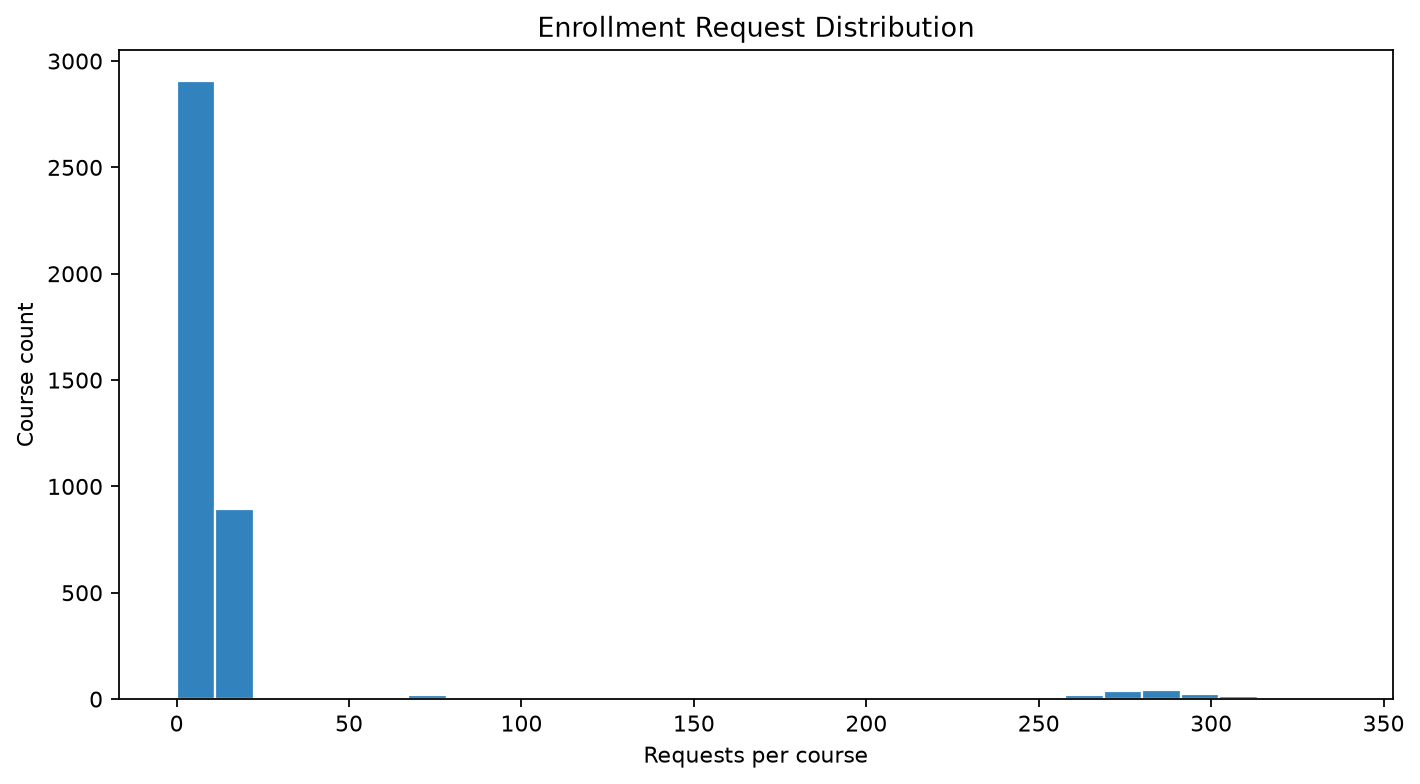
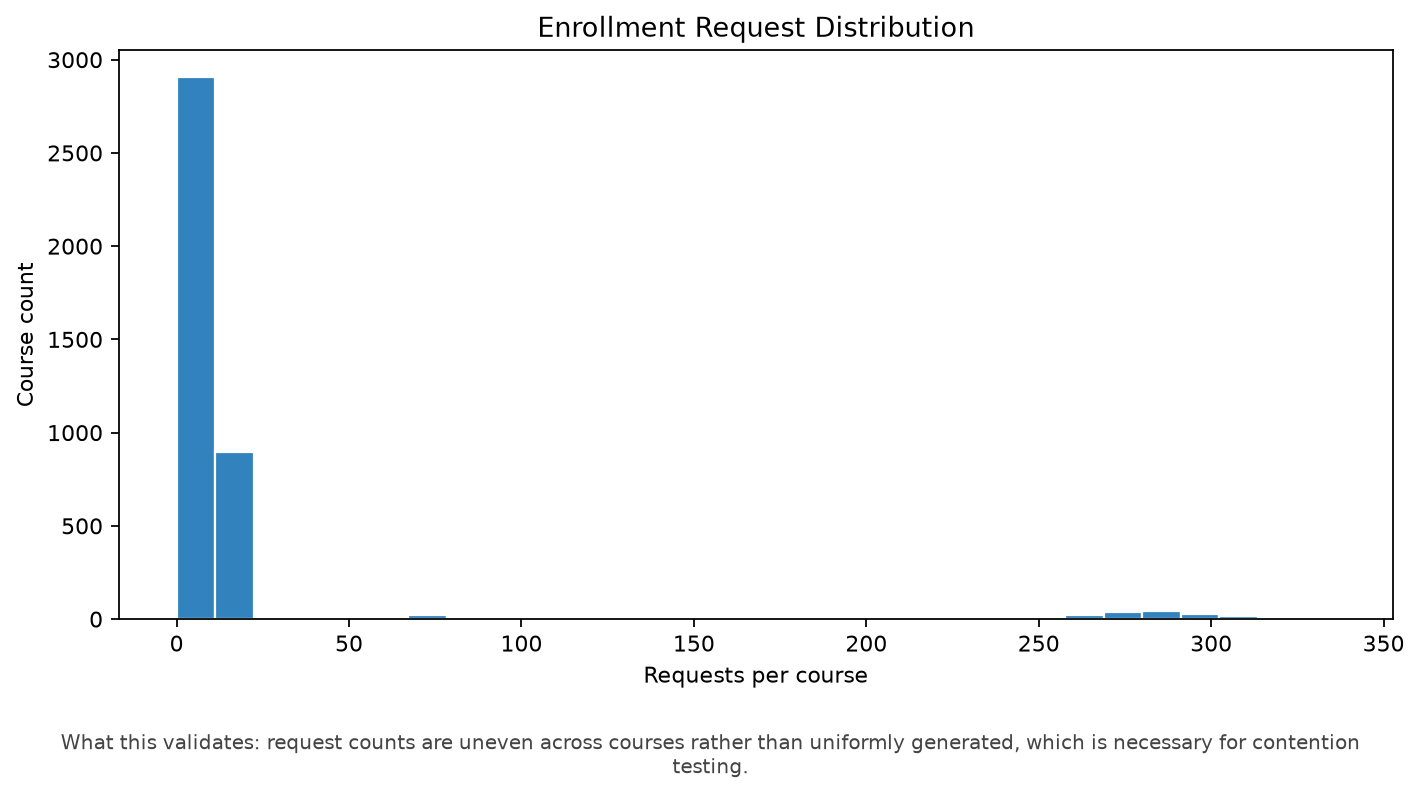
feat: validation 리포트 시각화 수정

diff --git a/src/exporters/chart_exporter.py b/src/exporters/chart_exporter.py
@@ -1,6 +1,7 @@
 from __future__ import annotations
 
 import os
+import textwrap
 
 
 class ChartExporter:
@@ -18,19 +19,147 @@ class ChartExporter:
 
         chart_dir = context.output_dir / "charts"
         chart_dir.mkdir(parents=True, exist_ok=True)
+        appendix_dir = chart_dir / "appendix"
+        appendix_dir.mkdir(parents=True, exist_ok=True)
+        for stale_name in ("student_year_distribution.png", "department_distribution.png"):
+            stale_path = chart_dir / stale_name
+            if stale_path.exists():
+                stale_path.unlink()
+
+        self._payload_timeline(plt, chart_dir, context)
+        self._course_rank(plt, chart_dir, context, analysis["hotspot"])
+        self._hotspot_competition(plt, chart_dir, context, analysis["hotspot"])
+        self._validation_coverage(plt, chart_dir, context)
+        self._hotspot_summary(plt, chart_dir, analysis["hotspot"])
         self._hotspot(plt, chart_dir, analysis["hotspot"])
         self._enrollment(plt, chart_dir, context, analysis["hotspot"])
-        self._student_year(plt, chart_dir, analysis["distribution"])
-        self._department(plt, chart_dir, analysis["distribution"])
+        self._student_year(plt, appendix_dir, analysis["distribution"])
+        self._department(plt, appendix_dir, analysis["distribution"])
         self._timeslot(plt, chart_dir, analysis["schedule"])
         self._prerequisite_validation(plt, chart_dir, analysis["prerequisite"])
         self._prerequisite_graph(plt, chart_dir, context)
 
     @staticmethod
-    def _save(plt, path):
-        plt.tight_layout()
+    def _save(plt, path, caption):
+        figure = plt.gcf()
+        figure.text(
+            0.5,
+            0.015,
+            "What this validates: " + textwrap.fill(caption, width=110),
+            ha="center",
+            va="bottom",
+            fontsize=9,
+            color="#444444",
+        )
+        plt.tight_layout(rect=(0, 0.10, 1, 1))
         plt.savefig(path, dpi=160, bbox_inches="tight")
         plt.close()
+
+    def _payload_timeline(self, plt, chart_dir, context):
+        offsets = [row["scheduled_offset_ms"] / 1000 for row in context.data["enrollment_payload"]]
+        bins = list(range(0, 31))
+        plt.figure(figsize=(10, 5.5))
+        plt.hist(offsets, bins=bins, color="#2171b5", edgecolor="white")
+        plt.axvline(10, color="#de2d26", linestyle="--", linewidth=1.5, label="Burst boundary (10s)")
+        plt.xlim(0, 30)
+        plt.xlabel("Scheduled offset (seconds)")
+        plt.ylabel("Request count per second")
+        plt.title("Payload Timeline")
+        plt.legend()
+        self._save(
+            plt,
+            chart_dir / "payload_timeline.png",
+            "the intended burst shape: 60% of requests arrive in 0-10 seconds and the remaining 40% in 10-30 seconds.",
+        )
+
+    def _course_rank(self, plt, chart_dir, context, metric):
+        counts = sorted(
+            [metric["request_counts"].get(row["id"], 0) for row in context.data["course"]],
+            reverse=True,
+        )
+        plt.figure(figsize=(10, 5.5))
+        plt.plot(range(1, len(counts) + 1), counts, color="#2171b5", linewidth=1.4)
+        plt.axvline(metric["hotspot_course_count"], color="#de2d26", linestyle="--", label="Top 5% boundary")
+        plt.xlabel("Course rank by request count")
+        plt.ylabel("Request count")
+        plt.title("Course Request Rank Distribution")
+        plt.legend()
+        self._save(
+            plt,
+            chart_dir / "course_request_rank_distribution.png",
+            "requests form a deliberate head-tail distribution and the traffic concentration changes at the top-5% hotspot boundary.",
+        )
+
+    def _hotspot_competition(self, plt, chart_dir, context, metric):
+        capacities = {row["id"]: row["capacity"] for row in context.data["course"]}
+        ranked = sorted(metric["request_counts"].items(), key=lambda item: (-item[1], item[0]))[:20]
+        labels = [str(course_id) for course_id, _ in ranked]
+        requests = [count for _, count in ranked]
+        capacity = [capacities[course_id] for course_id, _ in ranked]
+        positions = list(range(len(ranked)))
+        width = 0.4
+        plt.figure(figsize=(12, 6))
+        plt.bar([value - width / 2 for value in positions], capacity, width, label="Capacity", color="#9ecae1")
+        plt.bar([value + width / 2 for value in positions], requests, width, label="Requests", color="#de2d26")
+        plt.xticks(positions, labels, rotation=45, ha="right")
+        plt.xlabel("Course ID (top 20 by requests)")
+        plt.ylabel("Count")
+        plt.title("Hotspot Competition: Capacity vs Requests")
+        plt.legend()
+        self._save(
+            plt,
+            chart_dir / "hotspot_competition.png",
+            "the busiest courses receive substantially more concurrent requests than their capacity, creating meaningful contention.",
+        )
+
+    def _validation_coverage(self, plt, chart_dir, context):
+        payload = context.data["enrollment_payload"]
+        hotspots = context.metadata["hotspot_course_ids"]
+        values = [
+            sum(row["scenario_type"] == "NORMAL" for row in payload),
+            sum(row["course_id"] in hotspots for row in payload),
+            sum(row["scenario_type"] == "PREREQUISITE_FAIL" for row in payload),
+            sum(row["scenario_type"] == "TIME_CONFLICT" for row in payload),
+            sum(row["scenario_type"] == "CREDIT_LIMIT" for row in payload),
+        ]
+        labels = ["NORMAL", "HOTSPOT", "PREREQUISITE_FAIL", "TIME_CONFLICT", "CREDIT_LIMIT"]
+        colors = ["#31a354", "#2171b5", "#756bb1", "#fd8d3c", "#bdbdbd"]
+        plt.figure(figsize=(11, 5.8))
+        bars = plt.bar(labels, values, color=colors)
+        display_labels = [f"{value:,}" if value else "N/A" for value in values]
+        plt.bar_label(bars, labels=display_labels, padding=3)
+        plt.xticks(rotation=15, ha="right")
+        plt.ylabel("Covered payload requests")
+        plt.title("Validation Scenario Coverage")
+        self._save(
+            plt,
+            chart_dir / "validation_coverage.png",
+            "the generated payload exercises normal, hotspot, prerequisite-failure, and time-conflict paths; credit remains N/A because the entity has no credit field.",
+        )
+
+    def _hotspot_summary(self, plt, chart_dir, metric):
+        course_hotspot = metric["course_ratio"] * 100
+        request_hotspot = metric["request_ratio"] * 100
+        plt.figure(figsize=(9, 5.5))
+        plt.barh(["Course population", "Request population"], [course_hotspot, request_hotspot], color="#2171b5", label="Hotspot")
+        plt.barh(
+            ["Course population", "Request population"],
+            [100 - course_hotspot, 100 - request_hotspot],
+            left=[course_hotspot, request_hotspot],
+            color="#d9d9d9",
+            label="Normal",
+        )
+        plt.text(course_hotspot / 2, 0, f"{course_hotspot:.0f}%", ha="center", va="center", color="white", fontweight="bold")
+        plt.text(request_hotspot / 2, 1, f"{request_hotspot:.0f}%", ha="center", va="center", color="white", fontweight="bold")
+        plt.xlim(0, 100)
+        plt.xlabel("Share (%)")
+        plt.title("Hotspot Summary: 5% of Courses Receive 60% of Requests")
+        plt.legend(loc="lower right")
+        self._save(
+            plt,
+            chart_dir / "hotspot_summary.png",
+            "the central performance-test premise holds: the top 5% of courses absorb exactly 60% of all enrollment requests.",
+        )
 
     def _hotspot(self, plt, chart_dir, metric):
         actual = [metric["request_ratio"] * 100, (1 - metric["request_ratio"]) * 100]
@@ -45,7 +174,11 @@ class ChartExporter:
         plt.ylim(0, 100)
         plt.title("Hotspot Request Distribution")
         plt.legend()
-        self._save(plt, chart_dir / "hotspot_distribution.png")
+        self._save(
+            plt,
+            chart_dir / "hotspot_distribution.png",
+            "the generated hotspot and normal request shares match the configured 60:40 target without distribution drift.",
+        )
 
     def _enrollment(self, plt, chart_dir, context, metric):
         counts = [metric["request_counts"].get(row["id"], 0) for row in context.data["course"]]
@@ -54,7 +187,11 @@ class ChartExporter:
         plt.xlabel("Requests per course")
         plt.ylabel("Course count")
         plt.title("Enrollment Request Distribution")
-        self._save(plt, chart_dir / "enrollment_distribution.png")
+        self._save(
+            plt,
+            chart_dir / "enrollment_distribution.png",
+            "request counts are uneven across courses rather than uniformly generated, which is necessary for contention testing.",
+        )
 
     def _student_year(self, plt, chart_dir, distribution):
         years = sorted(distribution["year_counts"])
@@ -64,7 +201,11 @@ class ChartExporter:
         plt.bar_label(bars, fmt="%d")
         plt.ylabel("Students")
         plt.title("Student Distribution by Derived Year")
-        self._save(plt, chart_dir / "student_year_distribution.png")
+        self._save(
+            plt,
+            chart_dir / "student_year_distribution.png",
+            "the analysis-only derived year groups are balanced; year is not persisted in the current JPA entity.",
+        )
 
     def _department(self, plt, chart_dir, distribution):
         departments = sorted(distribution["department_counts"])
@@ -74,7 +215,11 @@ class ChartExporter:
         plt.xlabel("Department ID")
         plt.ylabel("Students")
         plt.title("Student Distribution by Department")
-        self._save(plt, chart_dir / "department_distribution.png")
+        self._save(
+            plt,
+            chart_dir / "department_distribution.png",
+            "students are evenly assigned across departments so department skew does not accidentally dominate test results.",
+        )
 
     def _timeslot(self, plt, chart_dir, schedule):
         days = ["MONDAY", "TUESDAY", "WEDNESDAY", "THURSDAY", "FRIDAY"]
@@ -86,7 +231,11 @@ class ChartExporter:
         plt.xticks(range(len(slots)), slots, rotation=45, ha="right")
         plt.yticks(range(len(days)), [day.title() for day in days])
         plt.title("Course Timeslot Heatmap")
-        self._save(plt, chart_dir / "timeslot_heatmap.png")
+        self._save(
+            plt,
+            chart_dir / "timeslot_heatmap.png",
+            "course times cover the configured weekday and 30-minute slot space used by time-conflict scenarios.",
+        )
 
     def _prerequisite_validation(self, plt, chart_dir, prerequisite):
         correct = prerequisite["correct_failure_cases"]
@@ -96,7 +245,11 @@ class ChartExporter:
         plt.bar_label(bars, fmt="%d")
         plt.ylabel("Payload requests")
         plt.title("Prerequisite Scenario Validation")
-        self._save(plt, chart_dir / "prerequisite_validation.png")
+        self._save(
+            plt,
+            chart_dir / "prerequisite_validation.png",
+            "every PREREQUISITE_FAIL payload is backed by a real department rule and a student who has not completed the required course.",
+        )
 
     def _prerequisite_graph(self, plt, chart_dir, context):
         rules = context.data["prerequisite"][:250]
@@ -109,4 +262,8 @@ class ChartExporter:
         plt.xlabel("Course ID (first 250 rules)")
         plt.title("Prerequisite Graph Sample")
         plt.legend()
-        self._save(plt, chart_dir / "prerequisite_graph.png")
+        self._save(
+            plt,
+            chart_dir / "prerequisite_graph.png",
+            "prerequisite edges point from lower course IDs to target courses, preventing self-reference and cyclic generation.",
+        )

diff --git a/src/exporters/report_exporter.py b/src/exporters/report_exporter.py
@@ -34,7 +34,11 @@ class ReportExporter:
             f"| Hotspot courses | {metric['expected_course_ratio']:.2%} | {metric['hotspot_course_count']:,} ({metric['course_ratio']:.2%}) |",
             f"| Total requests | {metric['request_total']:,} | {metric['request_total']:,} |",
             f"| Hotspot requests | {metric['expected_request_ratio']:.2%} | {metric['hotspot_request_count']:,} ({metric['request_ratio']:.2%}) |",
-            "", "![Hotspot distribution](../charts/hotspot_distribution.png)",
+            "", "## Performance-test design charts", "",
+            "![Hotspot summary](../charts/hotspot_summary.png)", "",
+            "![Course request rank](../charts/course_request_rank_distribution.png)", "",
+            "![Hotspot competition](../charts/hotspot_competition.png)", "",
+            "![Hotspot distribution](../charts/hotspot_distribution.png)",
         ])
 
     def _prerequisite(self, path, metric):
@@ -91,8 +95,9 @@ class ReportExporter:
             f"- Departments: {len(metric['department_counts']):,}",
             f"- Minimum students per department: {min(metric['department_counts'].values()):,}",
             f"- Maximum students per department: {max(metric['department_counts'].values()):,}", "",
-            "![Student year distribution](../charts/student_year_distribution.png)", "",
-            "![Department distribution](../charts/department_distribution.png)",
+            "The following population charts are supporting evidence rather than the main performance-test narrative.", "",
+            "![Student year distribution](../charts/appendix/student_year_distribution.png)", "",
+            "![Department distribution](../charts/appendix/department_distribution.png)",
         ])
 
     def _summary(self, path, context, analysis):
@@ -127,11 +132,18 @@ class ReportExporter:
             "- [Schedule](schedule_report.md)",
             "- [Credit](credit_report.md)",
             "- [Distribution](distribution_report.md)", "",
-            "## Charts", "",
+            "## Performance-test design charts", "",
+            "![Payload timeline](../charts/payload_timeline.png)", "",
+            "![Course request rank distribution](../charts/course_request_rank_distribution.png)", "",
+            "![Hotspot competition](../charts/hotspot_competition.png)", "",
+            "![Validation coverage](../charts/validation_coverage.png)", "",
+            "![Hotspot summary](../charts/hotspot_summary.png)", "",
+            "## Validation detail charts", "",
             "![Hotspot distribution](../charts/hotspot_distribution.png)", "",
             "![Enrollment distribution](../charts/enrollment_distribution.png)", "",
-            "![Student year distribution](../charts/student_year_distribution.png)", "",
-            "![Department distribution](../charts/department_distribution.png)", "",
             "![Timeslot heatmap](../charts/timeslot_heatmap.png)", "",
-            "![Prerequisite validation](../charts/prerequisite_validation.png)",
+            "![Prerequisite validation](../charts/prerequisite_validation.png)", "",
+            "## Appendix: population distribution", "",
+            "![Student year distribution](../charts/appendix/student_year_distribution.png)", "",
+            "![Department distribution](../charts/appendix/department_distribution.png)",
         ])

diff --git a/output/reports/summary_report.md b/output/reports/summary_report.md
@@ -42,16 +42,30 @@ Overall: **PASS**
 - [Credit](credit_report.md)
 - [Distribution](distribution_report.md)
 
-## Charts
+## Performance-test design charts
+
+![Payload timeline](../charts/payload_timeline.png)
+
+![Course request rank distribution](../charts/course_request_rank_distribution.png)
+
+![Hotspot competition](../charts/hotspot_competition.png)
+
+![Validation coverage](../charts/validation_coverage.png)
+
+![Hotspot summary](../charts/hotspot_summary.png)
+
+## Validation detail charts
 
 ![Hotspot distribution](../charts/hotspot_distribution.png)
 
 ![Enrollment distribution](../charts/enrollment_distribution.png)
 
-![Student year distribution](../charts/student_year_distribution.png)
-
-![Department distribution](../charts/department_distribution.png)
-
 ![Timeslot heatmap](../charts/timeslot_heatmap.png)
 
 ![Prerequisite validation](../charts/prerequisite_validation.png)
+
+## Appendix: population distribution
+
+![Student year distribution](../charts/appendix/student_year_distribution.png)
+
+![Department distribution](../charts/appendix/department_distribution.png)

diff --git a/README.md b/README.md
@@ -10,6 +10,8 @@ python3 -m venv .venv
 
 생성 결과는 `output/csv`, `output/sql`, `output/reports`, `output/charts`에 저장된다. DB 적재는 프로젝트 루트에서 다음처럼 실행한다.
 
+성능 테스트 설계의 핵심 차트는 payload timeline, course request rank, hotspot competition, validation coverage, hotspot summary이며, 학년·학과 분포는 `output/charts/appendix`에 보조 자료로 생성된다. 모든 차트 하단에는 해당 차트가 검증하는 목적이 자동으로 포함된다.
+
 ```bash
 psql "$DATABASE_URL" -f output/sql/load.sql
 ```

diff --git a/output/reports/distribution_report.md b/output/reports/distribution_report.md
@@ -17,6 +17,8 @@
 - Minimum students per department: 500
 - Maximum students per department: 500
 
-![Student year distribution](../charts/student_year_distribution.png)
+The following population charts are supporting evidence rather than the main performance-test narrative.
 
-![Department distribution](../charts/department_distribution.png)
+![Student year distribution](../charts/appendix/student_year_distribution.png)
+
+![Department distribution](../charts/appendix/department_distribution.png)

diff --git a/output/reports/hotspot_report.md b/output/reports/hotspot_report.md
@@ -9,4 +9,12 @@ Result: **PASS**
 | Total requests | 80,000 | 80,000 |
 | Hotspot requests | 60.00% | 48,000 (60.00%) |
 
+## Performance-test design charts
+
+![Hotspot summary](../charts/hotspot_summary.png)
+
+![Course request rank](../charts/course_request_rank_distribution.png)
+
+![Hotspot competition](../charts/hotspot_competition.png)
+
 ![Hotspot distribution](../charts/hotspot_distribution.png)
